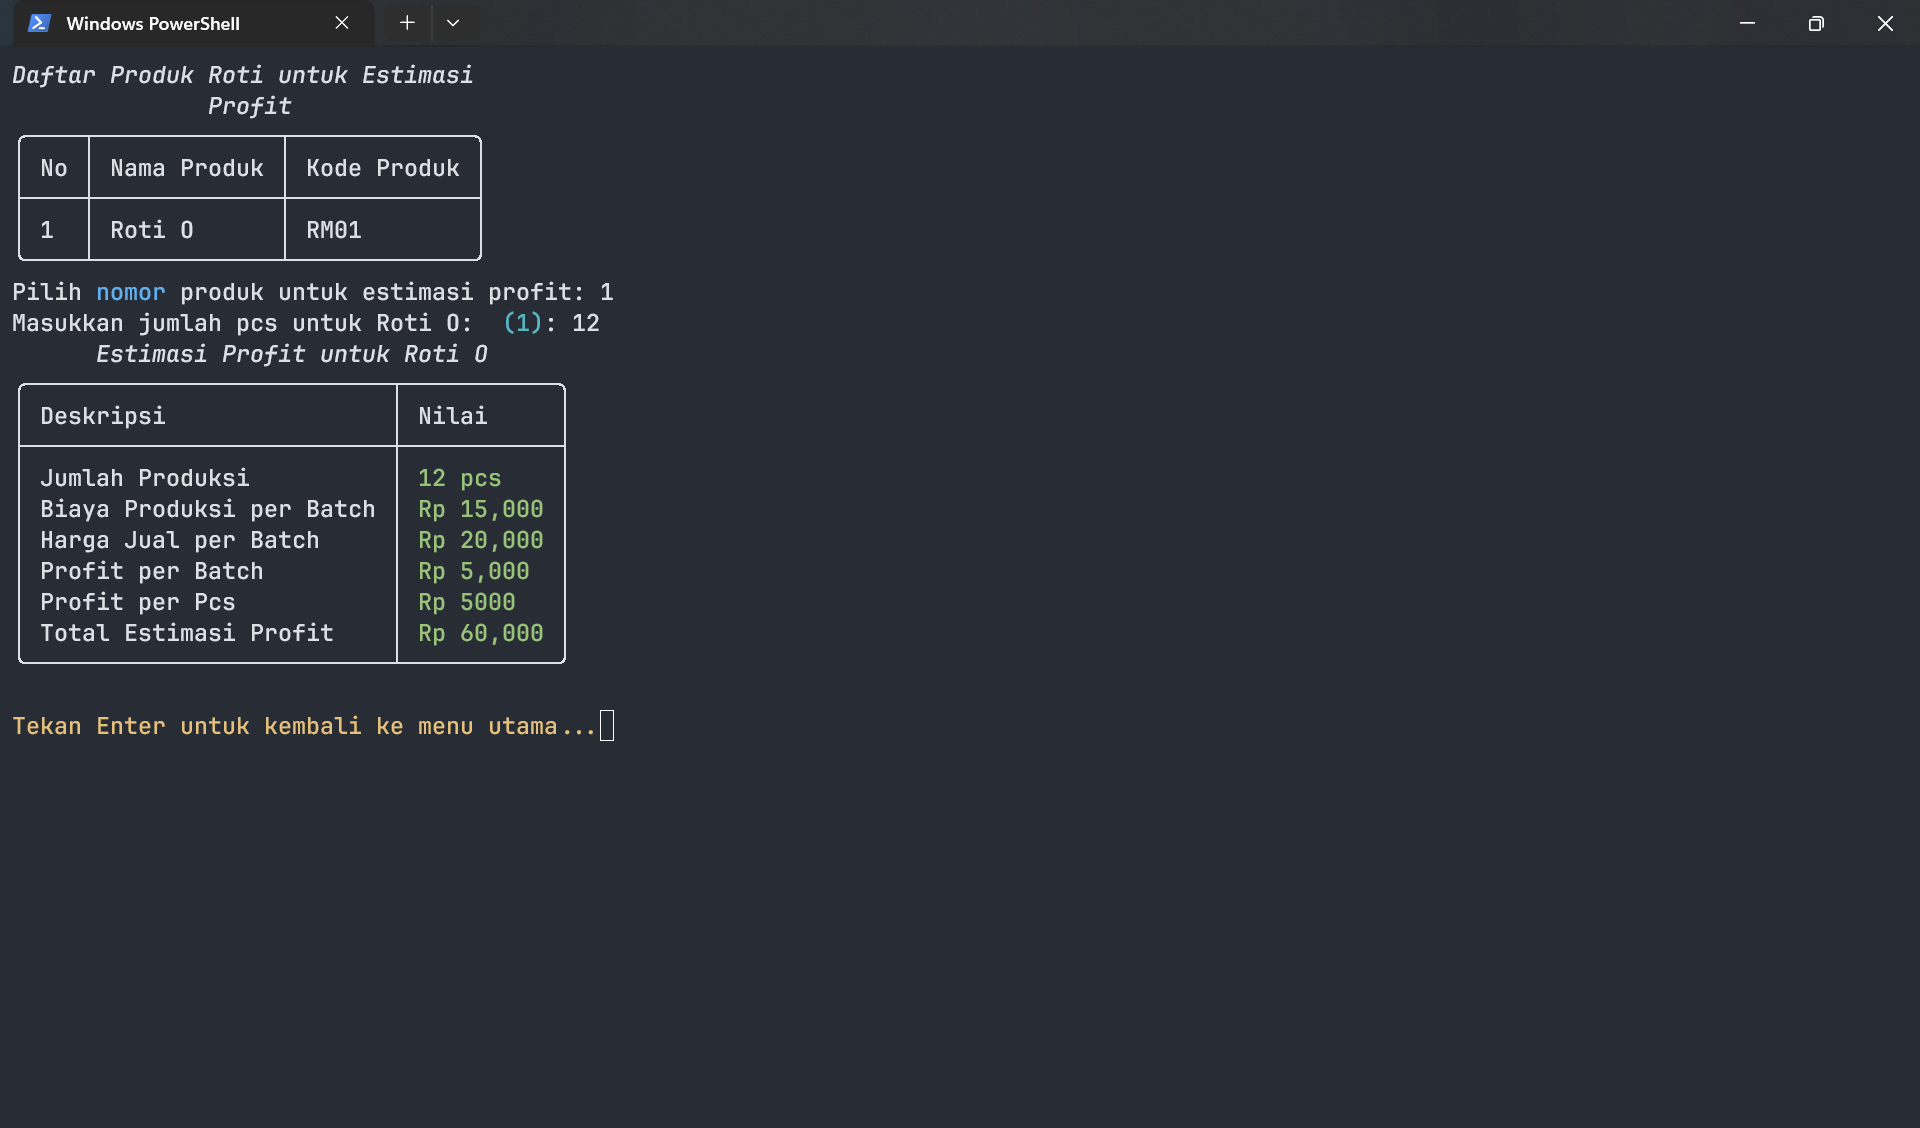
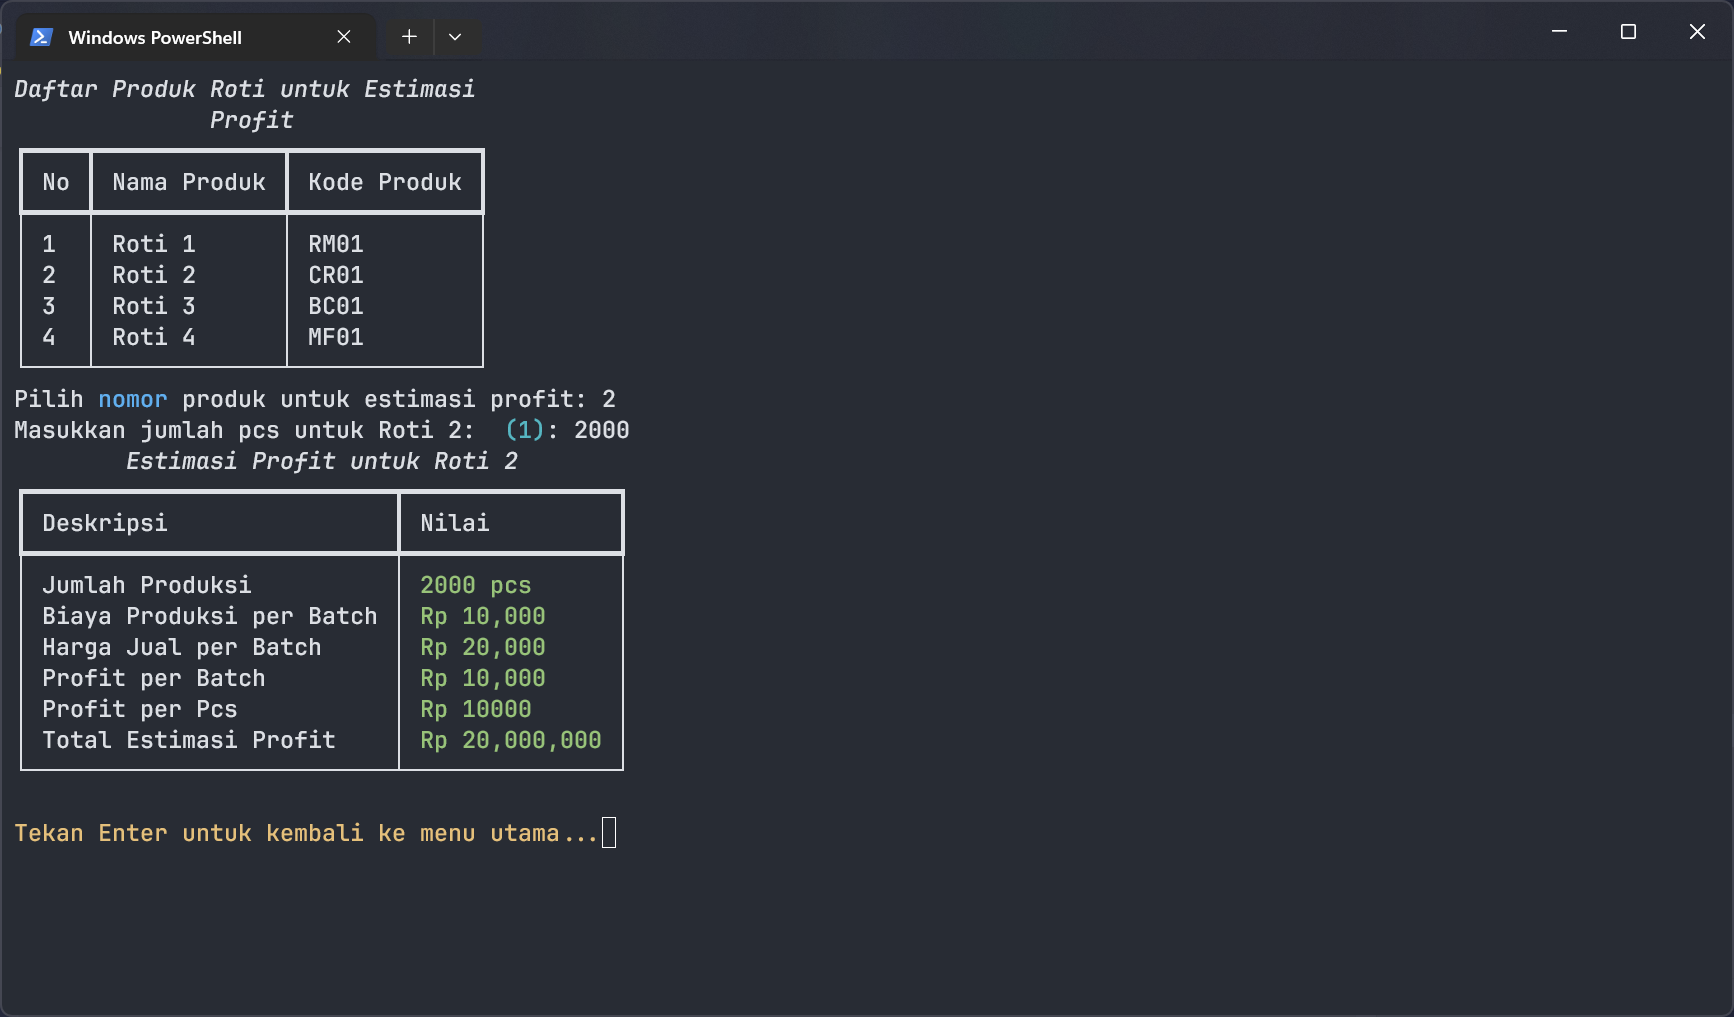
Finishing :)

diff --git a/src/app.py b/src/app.py
@@ -25,7 +25,7 @@ class HanariBakeryApp:
 
     def _menu(self):
         """Menampilkan main menu"""
-        table_menu = Table(title="Aplikasi Hanari Bakery", box=box.ROUNDED)
+        table_menu = Table(title="Aplikasi Hanari Bakery", box=box.HEAVY_HEAD)
         header = ["Nomor", "Nama Menu", "Deskripsi"]
         for head in header:
             table_menu.add_column(head, justify="left", no_wrap=True, style="bold")
@@ -66,12 +66,12 @@ class HanariBakeryApp:
     def run(self):
         """Menjalankan aplikasi Hanari Bakery."""
         self.console.print("[bold][green]Selamat datang[/green] di Hanari Bakery!. [red]Enter[/red] untuk memulai.[/bold]", end="")
-        time.sleep(1)
+        time.sleep(0.5)
         input()
         self._clean_screen()
         while True:
             self._menu()
-            choice = IntPrompt.ask("Pilih menu (1-5)",
+            choice = IntPrompt.ask("Pilih [blue bold]menu[/blue bold] (1-5)",
                                    choices=["1", "2", "3", "4", "5"],
                                    show_choices=False)
 
@@ -94,7 +94,7 @@ class HanariBakeryApp:
                 self.console.print("[bold]Pilihan [red]tidak valid[/red]. Silakan coba lagi.[/bold]")
 
     def tambah_produk(self):
-        tambah_produk_table = Table(title="Tambah Produk Roti", box=box.ROUNDED)
+        tambah_produk_table = Table(title="Tambah Produk Roti", box=box.HEAVY_HEAD)
         tambah_produk_table.add_column("Nomor", justify="left", style="bold")
         tambah_produk_table.add_column("Jenis Produk", justify="left", style="bold")
 
@@ -118,12 +118,12 @@ class HanariBakeryApp:
             self.console.print(f"[blue bold]Masukan detail data untuk produk {produk_terpilih.__name__}[/blue bold]")
 
             nama_produk = Prompt.ask("Masukkan [blue]nama[/blue] produk")
-            ukuran_batch = IntPrompt.ask("Masukan [blue bold]ukuran batch[/blue bold]", default=5)
-            biaya_produksi = IntPrompt.ask(f"Masukkan [blue bold]biaya produksi[/blue bold] untuk {ukuran_batch} pcs", default=0)
-            harga_jual = IntPrompt.ask(f"Masukkan [blue]harga jual[/blue] per {ukuran_batch} pcs", default=0)
+            ukuran_batch = IntPrompt.ask("Masukan [blue bold]ukuran batch[/blue bold]", default=5, show_default=False)
+            biaya_produksi = IntPrompt.ask(f"Masukkan [blue bold]biaya produksi[/blue bold] untuk {ukuran_batch} pcs", default=0, show_default=False)
+            harga_jual = IntPrompt.ask(f"Masukkan [blue]harga jual[/blue] per {ukuran_batch} pcs", default=0, show_default=False)
             kode_otomatis = self._generate_kode(produk_terpilih)
 
-            tabel_konfirmasi = Table(title="Konfirmasi Data Produk", box=box.ROUNDED)
+            tabel_konfirmasi = Table(title="Konfirmasi Data Produk", box=box.HEAVY_HEAD)
 
             tabel_konfirmasi.add_column("Attribut", justify="left", style="bold")
             tabel_konfirmasi.add_column("Nilai", justify="left")
@@ -137,7 +137,7 @@ class HanariBakeryApp:
 
             self._clean_screen()
             self.console.print(tabel_konfirmasi)
-            konfirmasi = Confirm.ask("Apakah data sudah [green]benar[/green]?", default=True)
+            konfirmasi = Confirm.ask("Apakah data sudah [green]benar[/green]?", default=True, show_default=False)
             if konfirmasi:
                 break
             else:
@@ -153,14 +153,18 @@ class HanariBakeryApp:
         self.daftar_produk.append(produk_baru)
         self.console.print(f"[green bold]Produk {nama_produk} berhasil ditambahkan![/green bold]")
 
+        self._jeda_untuk_lanjut()
+        self._clean_screen()
+
     def lihat_produk(self):
         self._clean_screen()
         if not self.daftar_produk:
             self.console.print("[red bold]Belum ada produk roti yang ditambahkan.[/red bold]")
             self._jeda_untuk_lanjut()
+            self._clean_screen()
             return
 
-        produk_table = Table(title="Daftar Produk Roti", box=box.ROUNDED)
+        produk_table = Table(title="Daftar Produk Roti", box=box.HEAVY_HEAD)
         produk_table.add_column("No", justify="left", style="bold")
 
         info_pertama = self.daftar_produk[0].get_info()
@@ -193,16 +197,18 @@ class HanariBakeryApp:
 
         self.console.print(produk_table)
         self._jeda_untuk_lanjut()
+        self._clean_screen()
 
     def estimasi_profit(self):
         self._clean_screen()
         if not self.daftar_produk:
             self.console.print("[red bold]Belum ada produk roti yang ditambahkan.[/red bold]")
             self._jeda_untuk_lanjut()
+            self._clean_screen()
             return
 
         # Menampilkan produk yang tersedia
-        produk_table = Table(title="Daftar Produk Roti untuk Estimasi Profit", box=box.ROUNDED)
+        produk_table = Table(title="Daftar Produk Roti untuk Estimasi Profit", box=box.HEAVY_HEAD)
         produk_table.add_column("No", justify="left", style="bold")
         produk_table.add_column("Nama Produk", justify="left", style="bold")
         produk_table.add_column("Kode Produk", justify="left", style="bold")
@@ -224,7 +230,7 @@ class HanariBakeryApp:
         produk_terpilih = self.daftar_produk[pilihan - 1]
 
         # Minta jumlah produksi
-        jumlah_produksi = IntPrompt.ask(f"Masukkan jumlah pcs untuk {produk_terpilih.nama_produk}: ",
+        jumlah_produksi = IntPrompt.ask(f"Masukkan [blue]jumlah[/blue] pcs untuk {produk_terpilih.nama_produk}",
                                         default=1)
 
         # Perhitungan estimasi profit
@@ -239,7 +245,7 @@ class HanariBakeryApp:
         total_estimasi_profit = profit_per_pcs * jumlah_produksi
 
         # Tabel estimasi profit
-        estimasi_table = Table(title=f"Estimasi Profit untuk {produk_terpilih.nama_produk}", box=box.ROUNDED)
+        estimasi_table = Table(title=f"Estimasi Profit untuk {produk_terpilih.nama_produk}", box=box.HEAVY_HEAD)
         estimasi_table.add_column("Deskripsi", style="bold")
         estimasi_table.add_column("Nilai", style="bold green")
 
@@ -247,12 +253,14 @@ class HanariBakeryApp:
         estimasi_table.add_row("Biaya Produksi per Batch", f"Rp {produk_terpilih.biaya_produksi:,}")
         estimasi_table.add_row("Harga Jual per Batch", f"Rp {produk_terpilih.harga_jual:,}")
         estimasi_table.add_row("Profit per Batch", f"Rp {profit_per_batch:,}")
-        estimasi_table.add_row("Profit per Pcs", f"Rp {profit_per_pcs:.0f}")
+        estimasi_table.add_row("Profit per Pcs", f"Rp {profit_per_pcs:,.0f}")
         estimasi_table.add_row("Total Estimasi Profit", f"Rp {total_estimasi_profit:,.0f}")
 
+        self._clean_screen()
         self.console.print(estimasi_table)
 
         self._jeda_untuk_lanjut()
+        self._clean_screen()
 
     def simulasi_produksi(self):
         self._clean_screen()
@@ -261,6 +269,7 @@ class HanariBakeryApp:
         if not self.daftar_produk:
             self.console.print("[bold red]Belum ada produk roti yang ditambahkan.[/bold red]")
             self._jeda_untuk_lanjut()
+            self._clean_screen()
             return
 
         pilihan_produk_table = Table(title="Pilih Produk untuk Disimulasikan")
@@ -283,28 +292,29 @@ class HanariBakeryApp:
         produk_terpilih = self.daftar_produk[pilihan_idx]
 
         # Langkah 2: Jalankan Simulasi dengan Urutan yang Benar
-        self.console.print(f"\n[bold]--- Memulai Simulasi untuk [yellow]{produk_terpilih.nama_produk}[/yellow] ---[/bold]")
+        self.console.print(f"\n[bold]--- Memulai Simulasi untuk [yellow]{produk_terpilih.nama_produk}[/yellow] ---[/bold]\n")
         time.sleep(1)
 
         # Memanggil metode proses wajib dari superclass ProdukRoti
-        self.console.print(produk_terpilih.pengadonan())
+        self.console.print("> ", produk_terpilih.pengadonan())
         time.sleep(1)
 
         # Memeriksa apakah produk ini punya kemampuan 'BisaDikembangkan'
         if isinstance(produk_terpilih, BisaDikembangkan):
-            self.console.print(produk_terpilih.pengembangan())
+            self.console.print("> ", produk_terpilih.pengembangan())
             time.sleep(1)
 
         # Memanggil metode proses wajib dari superclass ProdukRoti
-        self.console.print(produk_terpilih.pemanggangan())
+        self.console.print("> ", produk_terpilih.pemanggangan())
         time.sleep(1)
 
         # Memeriksa apakah produk ini punya kemampuan 'BisaDiberiToping'
         if isinstance(produk_terpilih, BisaDiberiToping):
-            self.console.print(produk_terpilih.toping())
+            self.console.print("> ", produk_terpilih.toping())
             time.sleep(1)
 
         self.console.print("\n[bold green]--- Simulasi Selesai ---[/bold green]")
 
         # Langkah 3: Jeda Layar
         self._jeda_untuk_lanjut()
+        self._clean_screen()

diff --git a/src/produk/roti_manis.py b/src/produk/roti_manis.py
@@ -16,17 +16,12 @@ class RotiManis(ProdukRoti, BisaDikembangkan):
             'Mentega': '100 gram',
             'Garam': '1 sdt',
         }
-    
+
     def pengadonan(self) -> str:
         return "campur semua bahan kering kecuali garam aduk menggunakan spatula, lalu masukkan susu air dan telur aduk dan uleni sampai rata atau kalis. terakhir masukkan mentega dan garam aduk hingga rata"
-    
+
     def pengembangan(self) -> str:
         return "setelah adonan kalis, diamkan selama 30 menit, jika sudah potong dan bulatkan dengan berat 40gr lalu diamkan kembali selama 15-20 menit. kemudian bentuk sesuai selera dan diamkan kembali selama 20-30 menit/sampai mengembang"
-    
+
     def pemanggangan(self) -> str:
         return "kemudian oleskan margarin, dan oven di suhu 170 derajat celcius selama 15-20menit, setelah itu keluarkan dan olesi kembali dengan mentega lalu oven selama 20-25 menit"
-    
-    def get_info(self) -> dict:
-        info = super().get_info()
-        info["Pengembangan"] = "Dapat dilakukan dengan mendiamkan terlebih dahulu ataupun dipotong dahulu"
-        return info

diff --git a/src/produk/croissant.py b/src/produk/croissant.py
@@ -22,8 +22,3 @@ class Croissant(ProdukRoti, BisaDikembangkan):
 
     def pemanggangan(self) -> str:
         return "Croissant dipanggang dalam oven pada suhu 200°C selama 15-20 menit hingga berwarna keemasan dan mengembang sempurna."
-
-    def get_info(self) -> dict:
-        info = super().get_info()
-        info["Pengembangan"] = "Dapat dikembangkan dengan teknik lipatan berlapis untuk menghasilkan tekstur yang renyah."
-        return info

diff --git a/src/produk/muffin.py b/src/produk/muffin.py
@@ -26,9 +26,3 @@ class Muffin(ProdukRoti, BisaDikembangkan, BisaDiberiToping):
 
     def toping(self) -> str:
         return "beri hiasan toping bisa sebelum dimasukkan ke oven atau setelah proses oven"
-
-    def get_info(self) -> dict:
-        info = super().get_info()
-        info["Pengembangan"] = "Dapat dibentuk menggunakan cetakan berbentuk"
-        info["Toping"] = "beri toping sesuai selera"
-        return info

diff --git a/src/produk/butter_cookies.py b/src/produk/butter_cookies.py
@@ -21,8 +21,3 @@ class ButterCookies(ProdukRoti, BisaDiberiToping):
 
     def pemanggangan(self) -> str:
         return "Memanggang butter cookies dalam oven pada suhu 180°C selama 15-20 menit hingga berwarna keemasan dan teksturnya renyah."
-
-    def get_info(self) -> dict:
-        info = super().get_info()
-        info["Toping"] = "Coklat"
-        return info

diff --git a/README.md b/README.md
@@ -99,7 +99,7 @@ Berikut adalah hasil uji coba program beserta screenshot untuk setiap fitur utam
 > Contoh output saat pengguna memilih menu untuk menambahkan produk baru dan memasukkan data yang diperlukan.
 
 #### 3. Menampilkan Semua Produk
-![Menampilkan Semua Produk](media/screenshot/Tampilkan_Produk.png)
+![Menampilkan Semua Produk](media/screenshot/Tampil_Produk.png)
 > Output yang menampilkan semua produk yang sudah tersimpan dalam sistem.
 
 #### 4. Kalkulator Estimasi Profit
@@ -109,7 +109,6 @@ Berikut adalah hasil uji coba program beserta screenshot untuk setiap fitur utam
 #### 5. Simulasi Proses Produksi
 ![Simulasi Proses Produksi](media/screenshot/Simulasi_Proses.png)
 > Contoh simulasi proses pembuatan untuk salah satu jenis roti.
-
 
 ---
 
